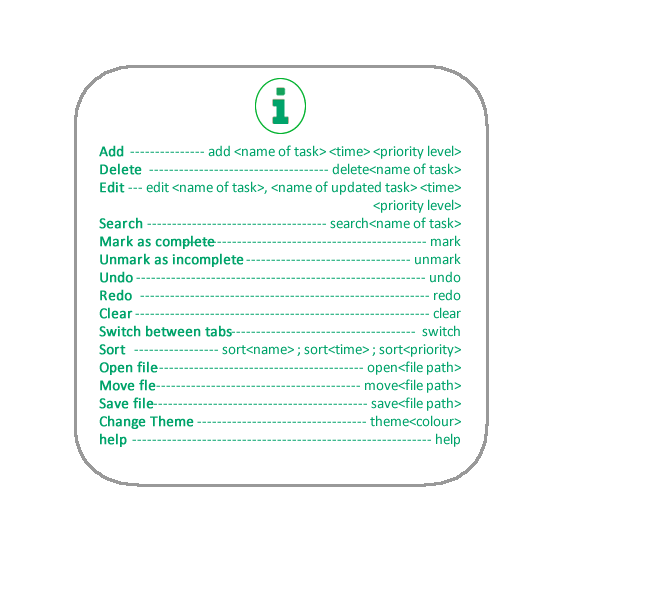
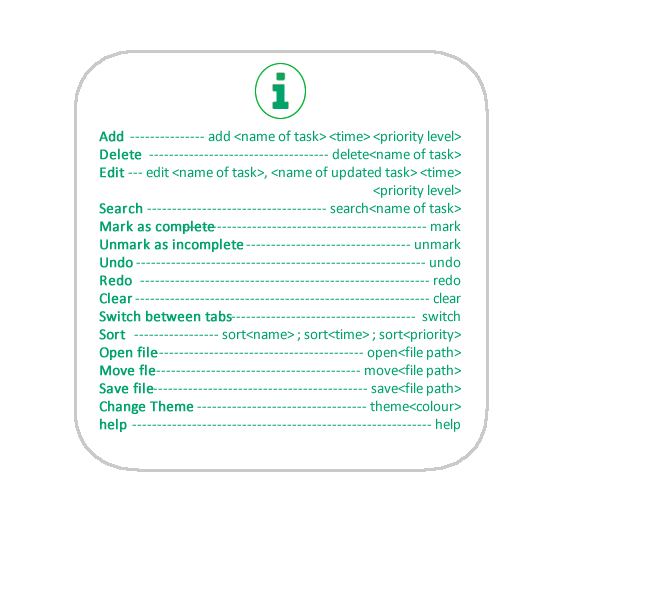
updated help page and help feedback

Changed region(s): [[0.0913, 0.0599, 0.761, 0.8087]]

diff --git a/src/main/resources/styles/stylesheet.css b/src/main/resources/styles/stylesheet.css
@@ -30,7 +30,7 @@
     -fx-border-color:#E3F2FD;
 }
 .rootBlack{
-		-fx-background-image: url("/main/resources/images/black.jpg");
+		-fx-background-image: url("/main/resources/images/grass.jpg");
     -fx-background-size: stretch;
     -fx-border-color:#E3F2FD;
 }

diff --git a/src/main/java/flash/Main.java b/src/main/java/flash/Main.java
@@ -1037,7 +1037,9 @@ public class Main extends Application {
 				commandBarController.setFeedback("Previous command has been undone", Color.GREEN);
 			} else if (userInput.equalsIgnoreCase(REDO_COMMAND)) {
 				commandBarController.setFeedback("Previous Change has been restored", Color.GREEN);
-			} else if (userInput.equalsIgnoreCase(CLEARUPCOMING_COMMAND)
+			} else if (userInput.equalsIgnoreCase(HELP_COMMAND)) {
+				
+			}else if (userInput.equalsIgnoreCase(CLEARUPCOMING_COMMAND)
 					|| userInput.equalsIgnoreCase(CLEARCOMPLETE_COMMAND)
 					|| userInput.equalsIgnoreCase(CLEAROVERDUE_COMMAND)
 					|| userInput.equalsIgnoreCase(CLEARFLOATING_COMMAND)
@@ -1338,7 +1340,7 @@ public class Main extends Application {
 		balloonBg.setPreserveRatio(true);
 		gridPane.add(balloonBg, 1, 1);
 
-		blackBg = new ImageView(new Image("/main/resources/images/black.jpg"));
+		blackBg = new ImageView(new Image("/main/resources/images/grass.jpg"));
 		handleBlackbg();
 		blackBg.setFitWidth(100);
 		blackBg.setPreserveRatio(true);
